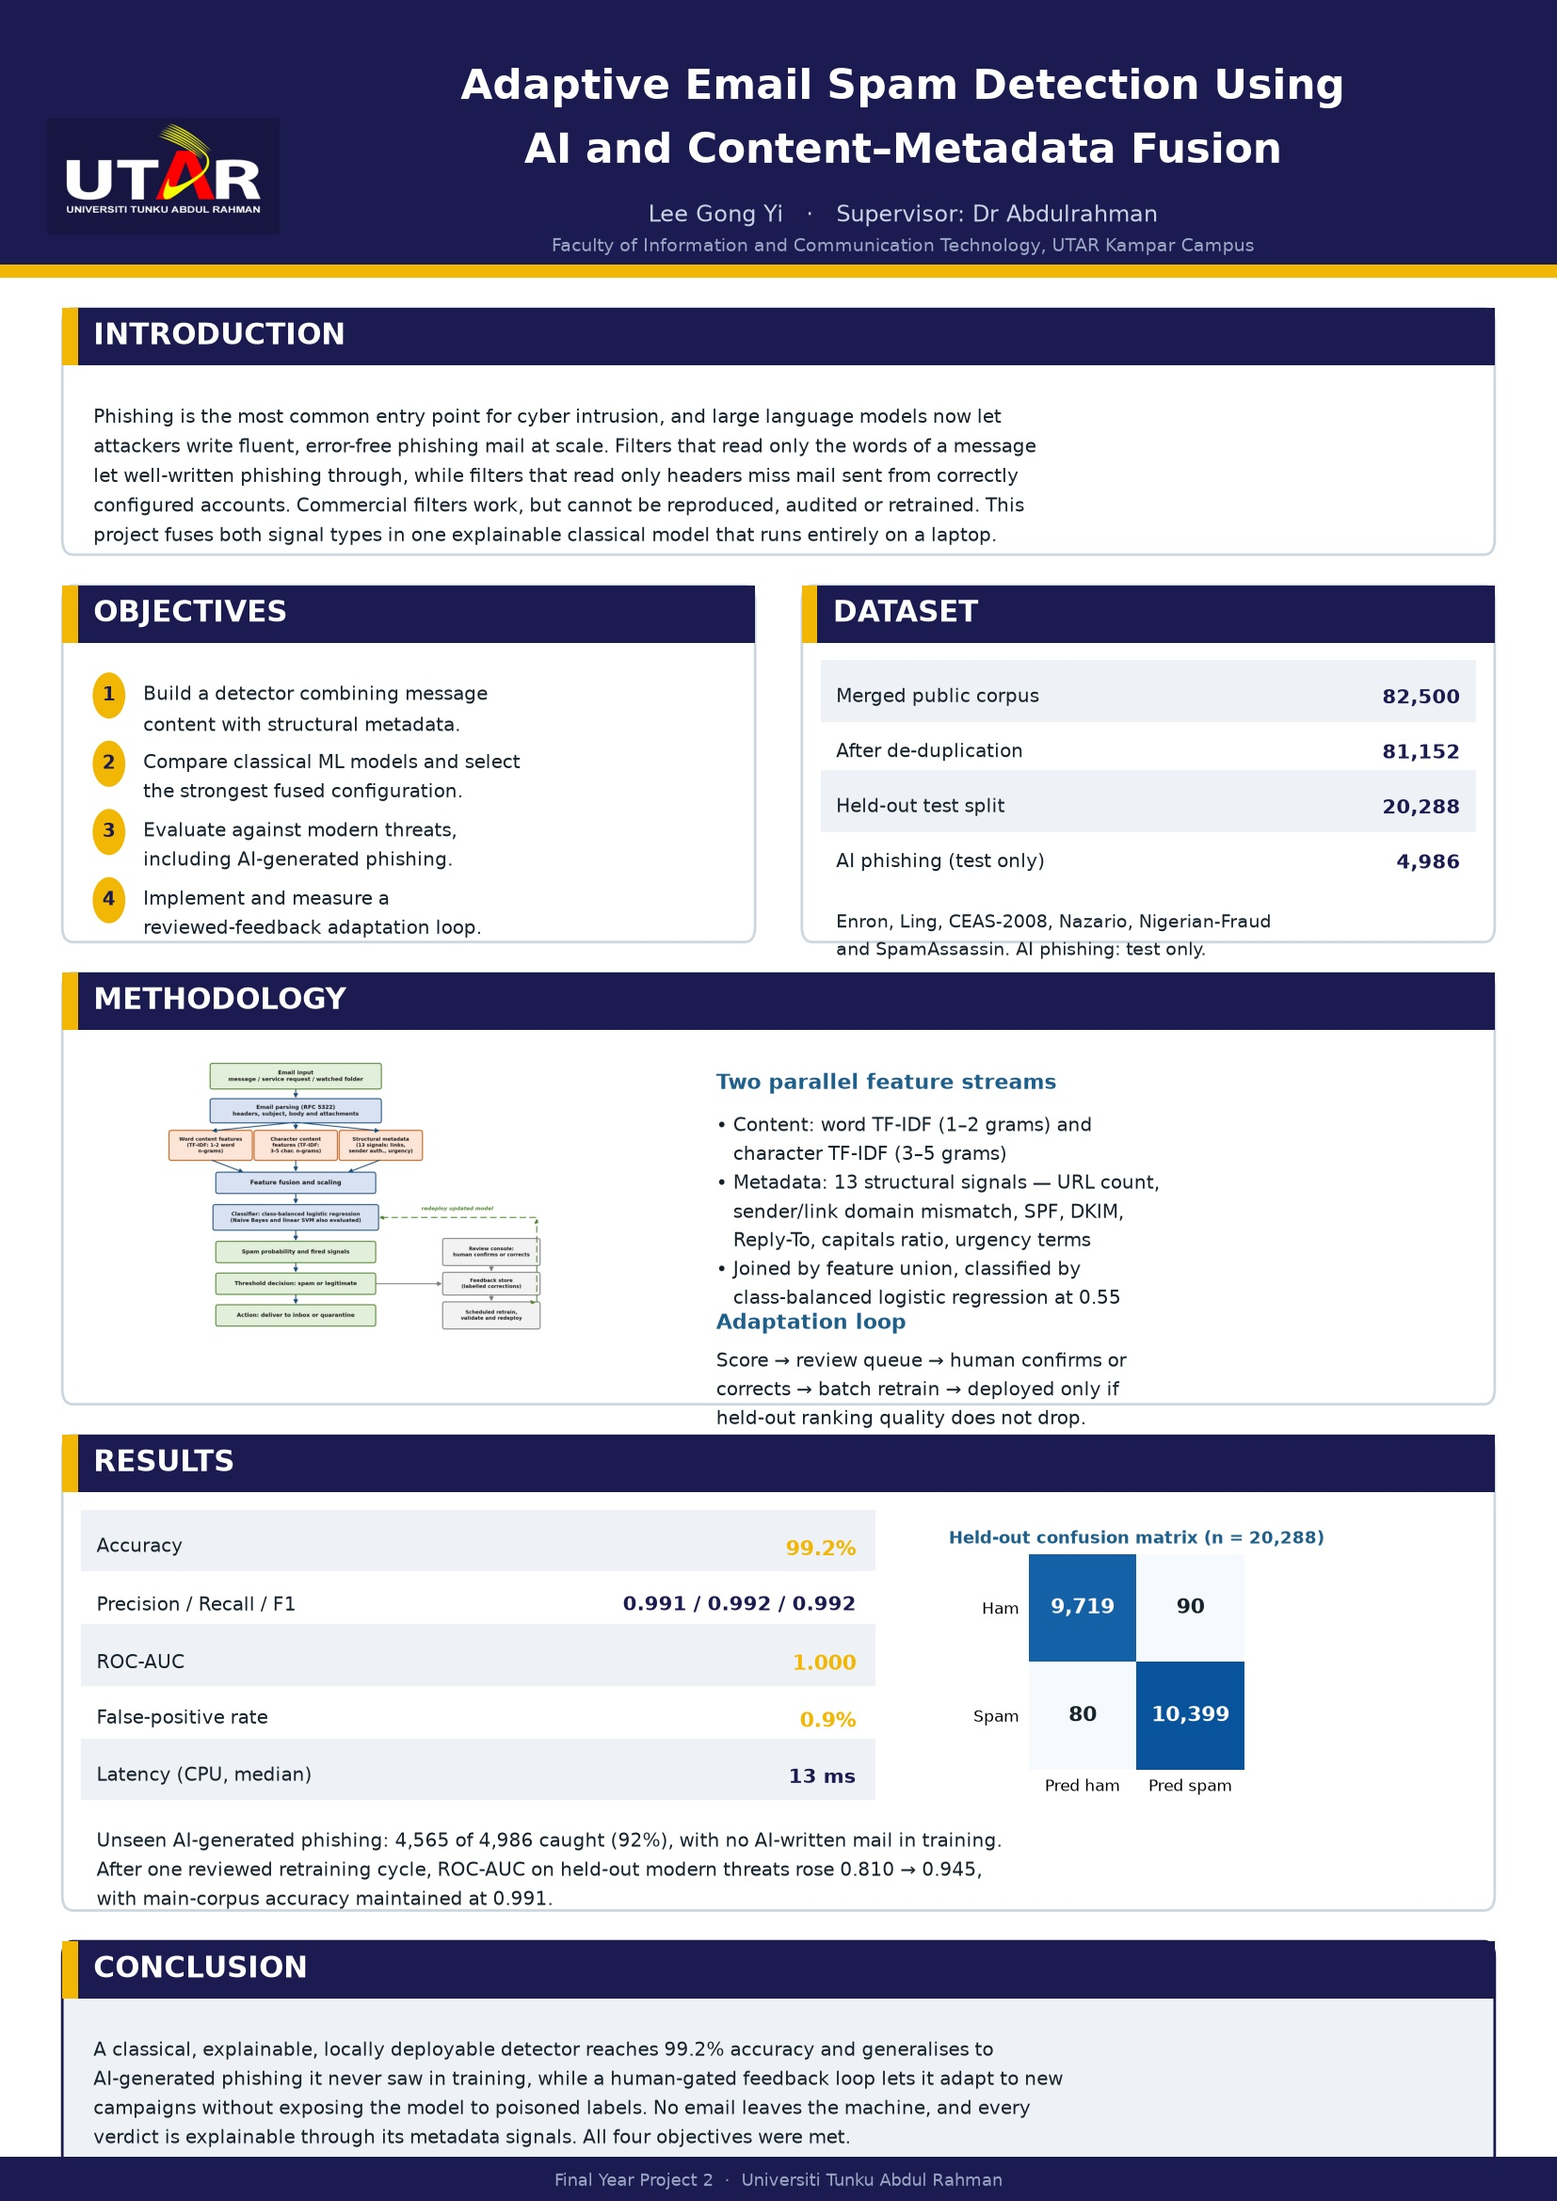
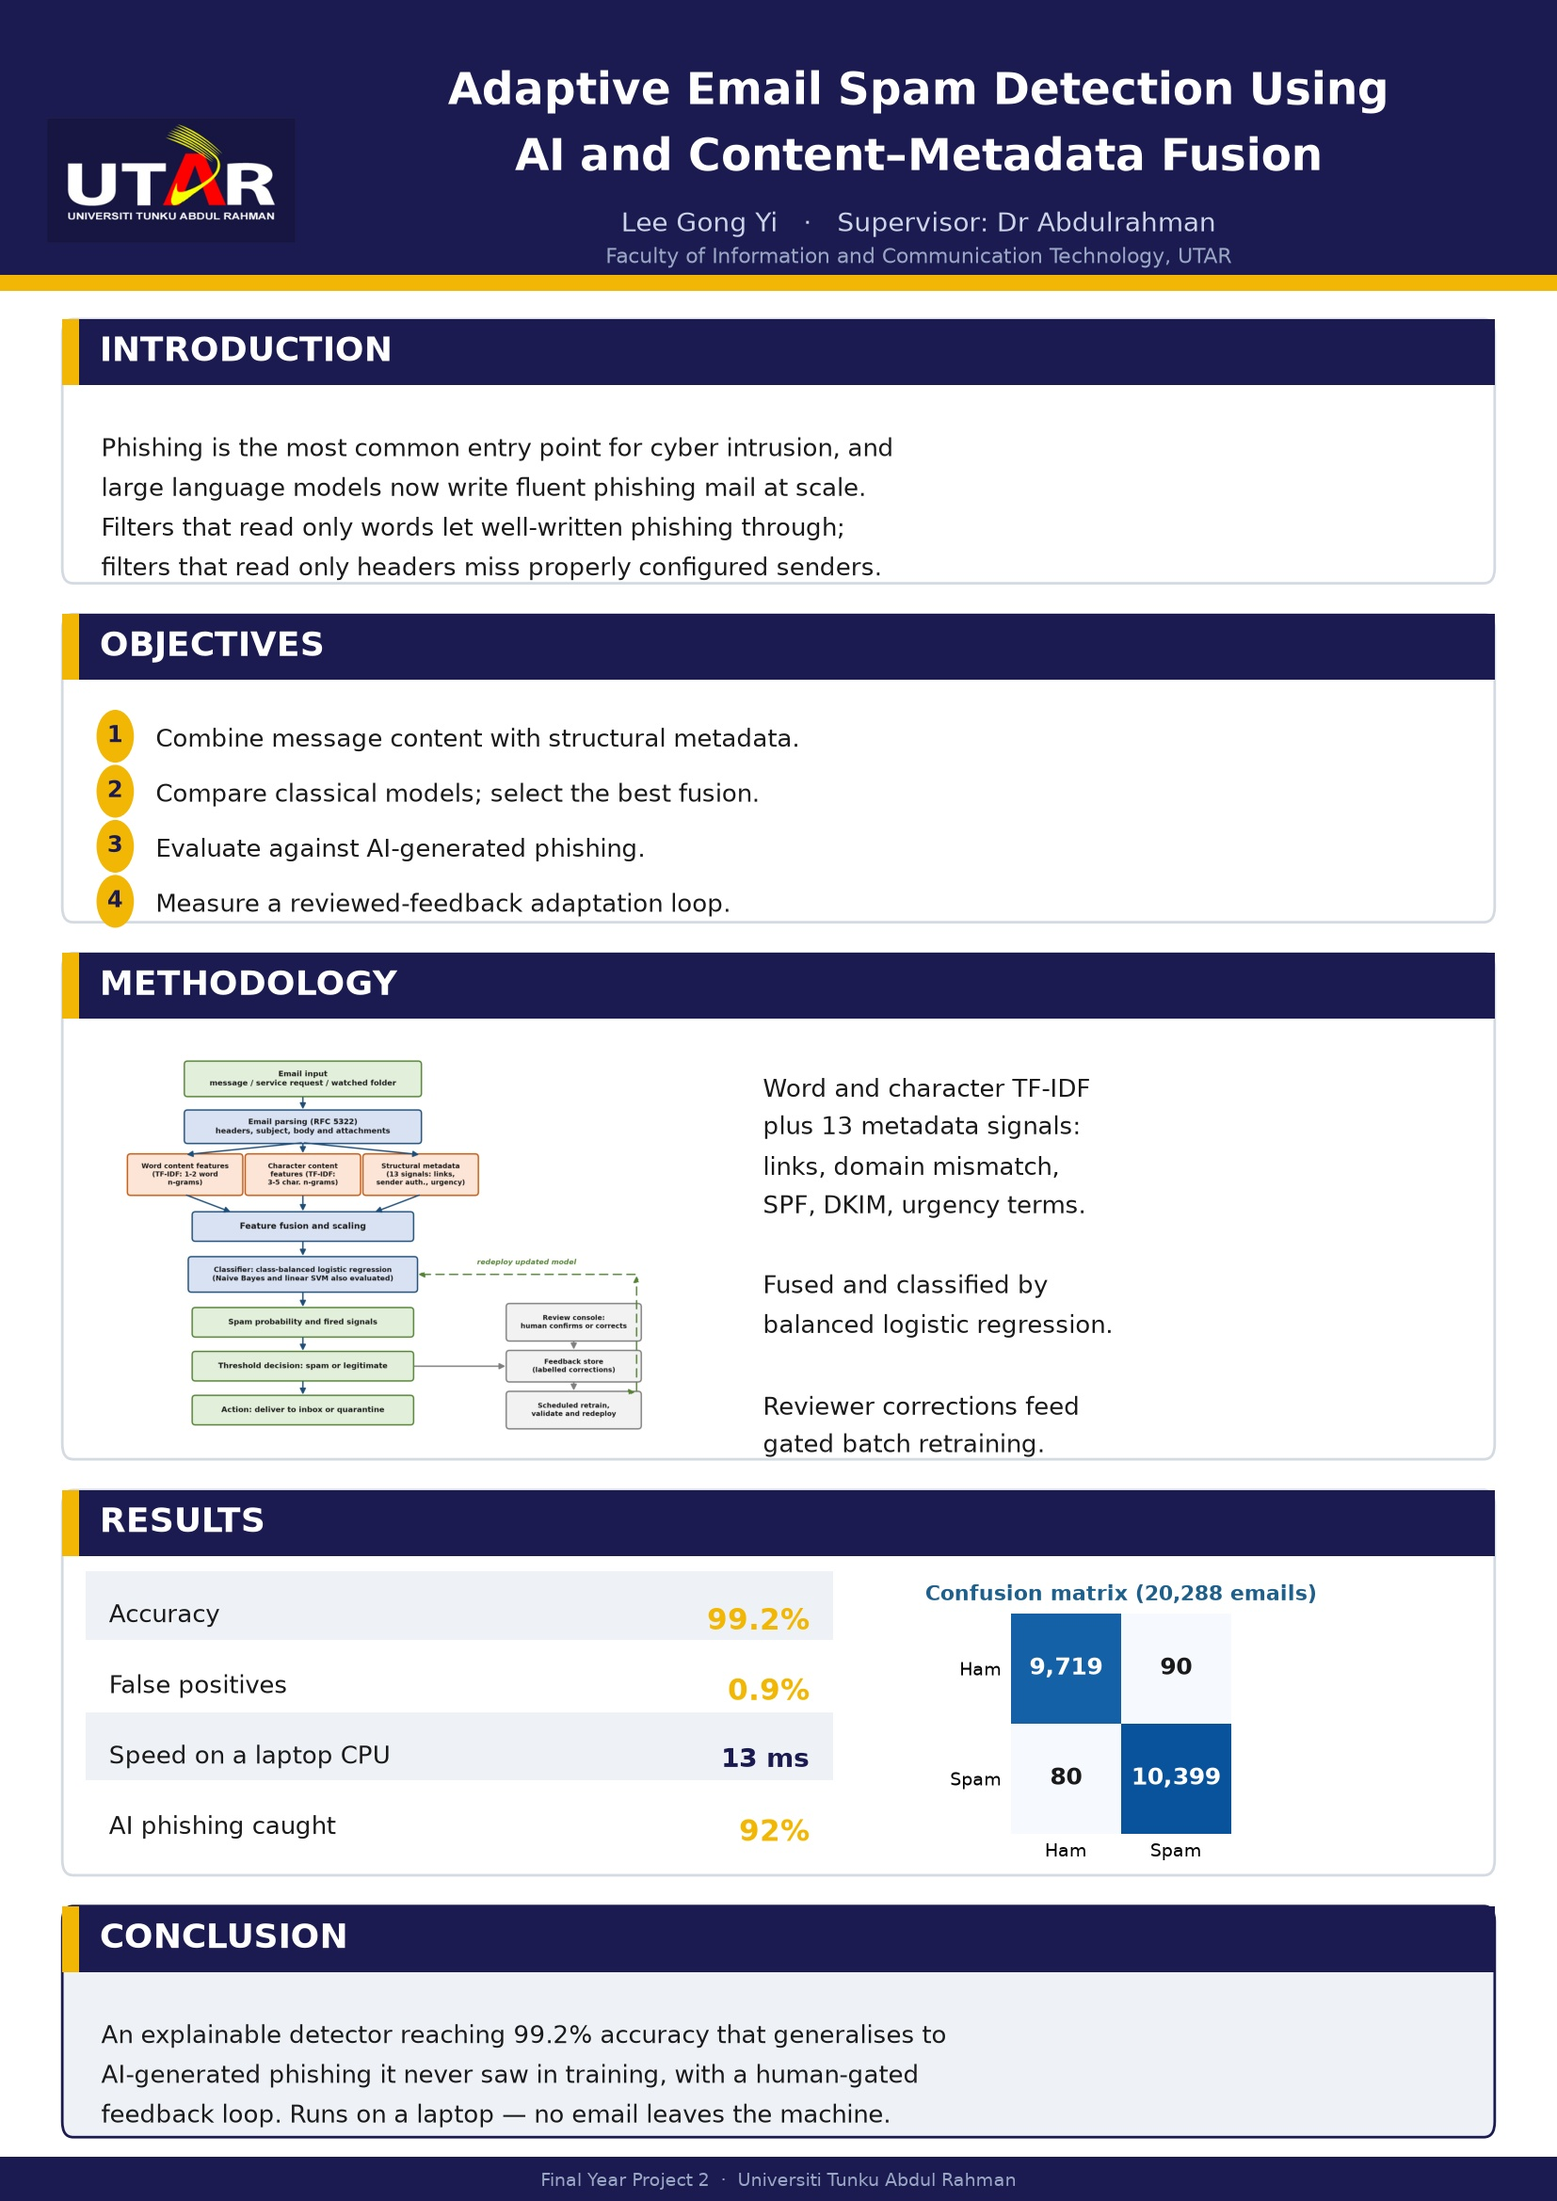
Simplify poster to five sections with larger type and more white space

Changed region(s): [[0.0, 0.0312, 1.0, 0.9991], [0.4008, 0.3435, 0.4317, 0.3747]]

diff --git a/reports/make_poster.py b/reports/make_poster.py
@@ -1,4 +1,4 @@
-"""Generate the FYP2 A4 poster (simple layout, UTAR logo) as PNG / JPEG / TIFF."""
+"""Generate the FYP2 A4 poster (sparse two-column layout, UTAR logo)."""
 from pathlib import Path
 
 import matplotlib
@@ -17,12 +17,12 @@ OUT.mkdir(parents=True, exist_ok=True)
 NAVY = "#1b1b52"
 BLUE = "#1f5f8b"
 ACCENT = "#f2b705"
-TEXT = "#16222c"
-BORDER = "#cdd7e0"
+TEXT = "#1a1a1a"
+BORDER = "#d3dae2"
 
 plt.rcParams["font.family"] = "DejaVu Sans"
 
-W, H = 8.27, 11.69          # A4 portrait
+W, H = 8.27, 11.69
 fig = plt.figure(figsize=(W, H), dpi=200)
 fig.patch.set_facecolor("white")
 ax = fig.add_axes([0, 0, 1, 1])
@@ -38,180 +38,147 @@ def panel(x, y, w, h, fc="white", ec=BORDER):
 
 
 def head(x, y, w, label):
-    ax.add_patch(Rectangle((x, y), w, 2.6, facecolor=NAVY, edgecolor="none", zorder=3))
-    ax.add_patch(Rectangle((x, y), 1.0, 2.6, facecolor=ACCENT, edgecolor="none", zorder=4))
-    ax.text(x + 2.0, y + 1.3, label.upper(), va="center", ha="left",
-            fontsize=11, color="white", fontweight="bold", zorder=5)
+    ax.add_patch(Rectangle((x, y), w, 3.0, facecolor=NAVY, edgecolor="none", zorder=3))
+    ax.add_patch(Rectangle((x, y), 1.1, 3.0, facecolor=ACCENT, edgecolor="none", zorder=4))
+    ax.text(x + 2.4, y + 1.5, label.upper(), va="center", ha="left",
+            fontsize=13, color="white", fontweight="bold", zorder=5)
 
 
-def body(x, y, s, size=7.6, w="normal", color=TEXT, ha="left", style="normal"):
+def body(x, y, s, size=9.5, w="normal", color=TEXT, ha="left"):
     ax.text(x, y, s, va="top", ha=ha, fontsize=size, color=color, fontweight=w,
-            style=style, zorder=4, linespacing=1.55)
+            zorder=4, linespacing=1.6)
 
 
-# ------------------------------------------------------------------ header
-ax.add_patch(Rectangle((0, 88.0), 100, 12.0, facecolor=NAVY, edgecolor="none", zorder=2))
-ax.add_patch(Rectangle((0, 87.4), 100, 0.6, facecolor=ACCENT, edgecolor="none", zorder=2))
+# ---------------------------------------------------------------- header
+ax.add_patch(Rectangle((0, 87.5), 100, 12.5, facecolor=NAVY, edgecolor="none", zorder=2))
+ax.add_patch(Rectangle((0, 86.8), 100, 0.7, facecolor=ACCENT, edgecolor="none", zorder=2))
 
 logo = ASSETS / "utar_logo.png"
 if logo.exists():
     im = mpimg.imread(logo)
-    lw = 15.0
+    lw = 16.0
     lh = lw * im.shape[0] / im.shape[1] * (W / H)
-    axl = fig.add_axes([3.0 / 100, (92.0 - lh / 2) / 100, lw / 100, lh / 100], zorder=6)
+    axl = fig.add_axes([3.0 / 100, (91.8 - lh / 2) / 100, lw / 100, lh / 100], zorder=6)
     axl.imshow(im)
     axl.axis("off")
 
-ax.text(58, 96.0, "Adaptive Email Spam Detection Using",
-        ha="center", va="center", fontsize=16, color="white", fontweight="bold", zorder=4)
-ax.text(58, 93.1, "AI and Content\u2013Metadata Fusion",
-        ha="center", va="center", fontsize=16, color="white", fontweight="bold", zorder=4)
-ax.text(58, 90.2, "Lee Gong Yi   \u00b7   Supervisor: Dr Abdulrahman",
-        ha="center", va="center", fontsize=8.6, color="#c9d3e6", zorder=4)
-ax.text(58, 88.8, "Faculty of Information and Communication Technology, UTAR Kampar Campus",
-        ha="center", va="center", fontsize=7.0, color="#9aa7c4", zorder=4)
+ax.text(59, 95.8, "Adaptive Email Spam Detection Using",
+        ha="center", va="center", fontsize=17, color="white", fontweight="bold", zorder=4)
+ax.text(59, 92.8, "AI and Content\u2013Metadata Fusion",
+        ha="center", va="center", fontsize=17, color="white", fontweight="bold", zorder=4)
+ax.text(59, 89.8, "Lee Gong Yi   \u00b7   Supervisor: Dr Abdulrahman",
+        ha="center", va="center", fontsize=10, color="#cbd4e8", zorder=4)
+ax.text(59, 88.3, "Faculty of Information and Communication Technology, UTAR",
+        ha="center", va="center", fontsize=8, color="#9aa7c4", zorder=4)
 
 M = 4.0
 CW = 100 - 2 * M
-HALF = (CW - 3.0) / 2
-LX, RX = M, M + HALF + 3.0
 GAP = 1.4
 
-# ------------------------------------------------------------------ 1 intro
-y = 86.0
-h = 11.2
+# ---------------------------------------------------------------- introduction
+y = 85.5
+h = 12.0
 panel(M, y - h, CW, h)
-head(M, y - 2.6, CW, "Introduction")
-body(M + 2.0, y - 4.3,
-     "Phishing is the most common entry point for cyber intrusion, and large language models now let\n"
-     "attackers write fluent, error-free phishing mail at scale. Filters that read only the words of a message\n"
-     "let well-written phishing through, while filters that read only headers miss mail sent from correctly\n"
-     "configured accounts. Commercial filters work, but cannot be reproduced, audited or retrained. This\n"
-     "project fuses both signal types in one explainable classical model that runs entirely on a laptop.",
-     7.3)
+head(M, y - 3.0, CW, "Introduction")
+body(M + 2.5, y - 5.0,
+     "Phishing is the most common entry point for cyber intrusion, and\n"
+     "large language models now write fluent phishing mail at scale.\n"
+     "Filters that read only words let well-written phishing through;\n"
+     "filters that read only headers miss properly configured senders.", 9.5)
 
-# ------------------------------------------------------------------ 2 objectives / dataset
+# ---------------------------------------------------------------- objectives
 y -= h + GAP
-h = 16.2
-panel(LX, y - h, HALF, h)
-head(LX, y - 2.6, HALF, "Objectives")
-oy = y - 4.3
+h = 14.0
+panel(M, y - h, CW, h)
+head(M, y - 3.0, CW, "Objectives")
+oy = y - 4.8
 for i, o in enumerate([
-        "Build a detector combining message\ncontent with structural metadata.",
-        "Compare classical ML models and select\nthe strongest fused configuration.",
-        "Evaluate against modern threats,\nincluding AI-generated phishing.",
-        "Implement and measure a\nreviewed-feedback adaptation loop."], 1):
-    ax.add_patch(plt.Circle((LX + 3.0, oy - 0.7), 1.05, facecolor=ACCENT,
+        "Combine message content with structural metadata.",
+        "Compare classical models; select the best fusion.",
+        "Evaluate against AI-generated phishing.",
+        "Measure a reviewed-feedback adaptation loop."], 1):
+    ax.add_patch(plt.Circle((M + 3.4, oy - 0.75), 1.2, facecolor=ACCENT,
                             edgecolor="none", zorder=4))
-    ax.text(LX + 3.0, oy - 0.7, str(i), ha="center", va="center",
-            fontsize=7.2, color=NAVY, fontweight="bold", zorder=5)
-    body(LX + 5.2, oy, o, 7.2)
-    oy -= 3.1
+    ax.text(M + 3.4, oy - 0.75, str(i), ha="center", va="center",
+            fontsize=8.5, color=NAVY, fontweight="bold", zorder=5)
+    body(M + 6.0, oy, o, 9.5)
+    oy -= 2.5
 
-panel(RX, y - h, HALF, h)
-head(RX, y - 2.6, HALF, "Dataset")
-ry = y - 4.4
-for i, (k, v) in enumerate([("Merged public corpus", "82,500"),
-                            ("After de-duplication", "81,152"),
-                            ("Held-out test split", "20,288"),
-                            ("AI phishing (test only)", "4,986")]):
-    if i % 2 == 0:
-        ax.add_patch(Rectangle((RX + 1.2, ry - 1.8), HALF - 2.4, 2.8,
-                               facecolor="#eef2f7", edgecolor="none", zorder=2))
-    body(RX + 2.2, ry, k, 7.2)
-    body(RX + HALF - 2.2, ry, v, 7.6, "bold", NAVY, ha="right")
-    ry -= 2.5
-body(RX + 2.2, ry - 0.3,
-     "Enron, Ling, CEAS-2008, Nazario, Nigerian-Fraud\n"
-     "and SpamAssassin. AI phishing: test only.", 6.8)
-
-# ------------------------------------------------------------------ 3 method
+# ---------------------------------------------------------------- methodology
 y -= h + GAP
-h = 19.6
+h = 23.0
 panel(M, y - h, CW, h)
-head(M, y - 2.6, CW, "Methodology")
+head(M, y - 3.0, CW, "Methodology")
 
 arch = FIGS / "fig3_1_system_architecture.png"
 if arch.exists():
     im = mpimg.imread(arch)
-    iw = 26.0
+    iw = 36.0
     ih = iw * im.shape[0] / im.shape[1] * (W / H)
-    axi = fig.add_axes([(M + 6.0) / 100, (y - 3.6 - ih) / 100, iw / 100, ih / 100], zorder=6)
+    axi = fig.add_axes([(M + 3.0) / 100, (y - 4.2 - ih) / 100, iw / 100, ih / 100], zorder=6)
     axi.imshow(im)
     axi.axis("off")
 
-tx = M + 42.0
-body(tx, y - 4.3, "Two parallel feature streams", 7.8, "bold", BLUE)
-body(tx, y - 6.3,
-     "\u2022 Content: word TF-IDF (1\u20132 grams) and\n"
-     "   character TF-IDF (3\u20135 grams)\n"
-     "\u2022 Metadata: 13 structural signals \u2014 URL count,\n"
-     "   sender/link domain mismatch, SPF, DKIM,\n"
-     "   Reply-To, capitals ratio, urgency terms\n"
-     "\u2022 Joined by feature union, classified by\n"
-     "   class-balanced logistic regression at 0.55", 7.1)
-body(tx, y - 15.2, "Adaptation loop", 7.8, "bold", BLUE)
-body(tx, y - 17.0,
-     "Score \u2192 review queue \u2192 human confirms or\n"
-     "corrects \u2192 batch retrain \u2192 deployed only if\n"
-     "held-out ranking quality does not drop.", 7.1)
+tx = M + 45.0
+body(tx, y - 5.2,
+     "Word and character TF-IDF\n"
+     "plus 13 metadata signals:\n"
+     "links, domain mismatch,\n"
+     "SPF, DKIM, urgency terms.\n\n"
+     "Fused and classified by\n"
+     "balanced logistic regression.\n\n"
+     "Reviewer corrections feed\n"
+     "gated batch retraining.", 9.5)
 
-# ------------------------------------------------------------------ 4 results
+# ---------------------------------------------------------------- results
 y -= h + GAP
-h = 21.6
+h = 17.5
 panel(M, y - h, CW, h)
-head(M, y - 2.6, CW, "Results")
+head(M, y - 3.0, CW, "Results")
 
-ry = y - 4.4
+ry = y - 4.8
 for i, (k, v, b) in enumerate([("Accuracy", "99.2%", True),
-                               ("Precision / Recall / F1", "0.991 / 0.992 / 0.992", False),
-                               ("ROC-AUC", "1.000", True),
-                               ("False-positive rate", "0.9%", True),
-                               ("Latency (CPU, median)", "13 ms", False)]):
+                               ("False positives", "0.9%", True),
+                               ("Speed on a laptop CPU", "13 ms", False),
+                               ("AI phishing caught", "92%", True)]):
     if i % 2 == 0:
-        ax.add_patch(Rectangle((M + 1.2, ry - 1.8), 51.0, 2.8,
+        ax.add_patch(Rectangle((M + 1.5, ry - 2.0), 48.0, 3.1,
                                facecolor="#eef2f7", edgecolor="none", zorder=2))
-    body(M + 2.2, ry, k, 7.3)
-    body(M + 51.0, ry, v, 7.8 if b else 7.4, "bold", ACCENT if b else NAVY, ha="right")
-    ry -= 2.6
-
-body(M + 2.2, ry - 0.4,
-     "Unseen AI-generated phishing: 4,565 of 4,986 caught (92%), with no AI-written mail in training.\n"
-     "After one reviewed retraining cycle, ROC-AUC on held-out modern threats rose 0.810 \u2192 0.945,\n"
-     "with main-corpus accuracy maintained at 0.991.", 7.2)
+    body(M + 3.0, ry, k, 9.5)
+    body(M + 48.0, ry, v, 11 if b else 10, "bold", ACCENT if b else NAVY, ha="right")
+    ry -= 3.2
 
 cm = np.array([[9719, 90], [80, 10399]])
-axc = fig.add_axes([(M + 58.0) / 100, (y - 15.2) / 100, 22.0 / 100, 9.8 / 100], zorder=6)
+axc = fig.add_axes([(M + 56.0) / 100, (y - 15.6) / 100, 24.0 / 100, 10.0 / 100], zorder=6)
 axc.imshow(cm, cmap="Blues", vmin=0, vmax=12000)
 for (r, c), v in np.ndenumerate(cm):
-    axc.text(c, r, f"{v:,}", ha="center", va="center", fontsize=8,
+    axc.text(c, r, f"{v:,}", ha="center", va="center", fontsize=9,
              fontweight="bold", color="white" if v > 6000 else TEXT)
-axc.set_xticks([0, 1]); axc.set_xticklabels(["Pred ham", "Pred spam"], fontsize=6)
-axc.set_yticks([0, 1]); axc.set_yticklabels(["Ham", "Spam"], fontsize=6)
-axc.set_title("Held-out confusion matrix (n = 20,288)", fontsize=6.6, color=BLUE,
-              fontweight="bold", pad=4)
+axc.set_xticks([0, 1]); axc.set_xticklabels(["Ham", "Spam"], fontsize=7)
+axc.set_yticks([0, 1]); axc.set_yticklabels(["Ham", "Spam"], fontsize=7)
+axc.set_title("Confusion matrix (20,288 emails)", fontsize=8, color=BLUE,
+              fontweight="bold", pad=5)
 axc.tick_params(length=0)
 for sp in axc.spines.values():
     sp.set_visible(False)
 
-# ------------------------------------------------------------------ 5 conclusion
+# ---------------------------------------------------------------- conclusion
 y -= h + GAP
-h = 10.4
+h = 10.5
 panel(M, y - h, CW, h, fc="#eef2f7", ec=NAVY)
-head(M, y - 2.6, CW, "Conclusion")
-body(M + 2.0, y - 4.3,
-     "A classical, explainable, locally deployable detector reaches 99.2% accuracy and generalises to\n"
-     "AI-generated phishing it never saw in training, while a human-gated feedback loop lets it adapt to new\n"
-     "campaigns without exposing the model to poisoned labels. No email leaves the machine, and every\n"
-     "verdict is explainable through its metadata signals. All four objectives were met.", 7.2)
+head(M, y - 3.0, CW, "Conclusion")
+body(M + 2.5, y - 5.0,
+     "An explainable detector reaching 99.2% accuracy that generalises to\n"
+     "AI-generated phishing it never saw in training, with a human-gated\n"
+     "feedback loop. Runs on a laptop \u2014 no email leaves the machine.", 9.5)
 
-# ------------------------------------------------------------------ footer
+# ---------------------------------------------------------------- footer
 ax.add_patch(Rectangle((0, 0), 100, 2.0, facecolor=NAVY, edgecolor="none", zorder=2))
 ax.text(50, 0.9, "Final Year Project 2  \u00b7  Universiti Tunku Abdul Rahman",
-        ha="center", va="center", fontsize=6.4, color="#9aa7c4", zorder=4)
+        ha="center", va="center", fontsize=7, color="#9aa7c4", zorder=4)
 
 fig.savefig(OUT / "fyp2_poster.png", dpi=200, facecolor="white")
 fig.savefig(OUT / "fyp2_poster.jpg", dpi=200, facecolor="white",
             pil_kwargs={"quality": 95})
 fig.savefig(OUT / "fyp2_poster.tiff", dpi=200, facecolor="white")
-print("written:", OUT / "fyp2_poster.png")
+print("written")
